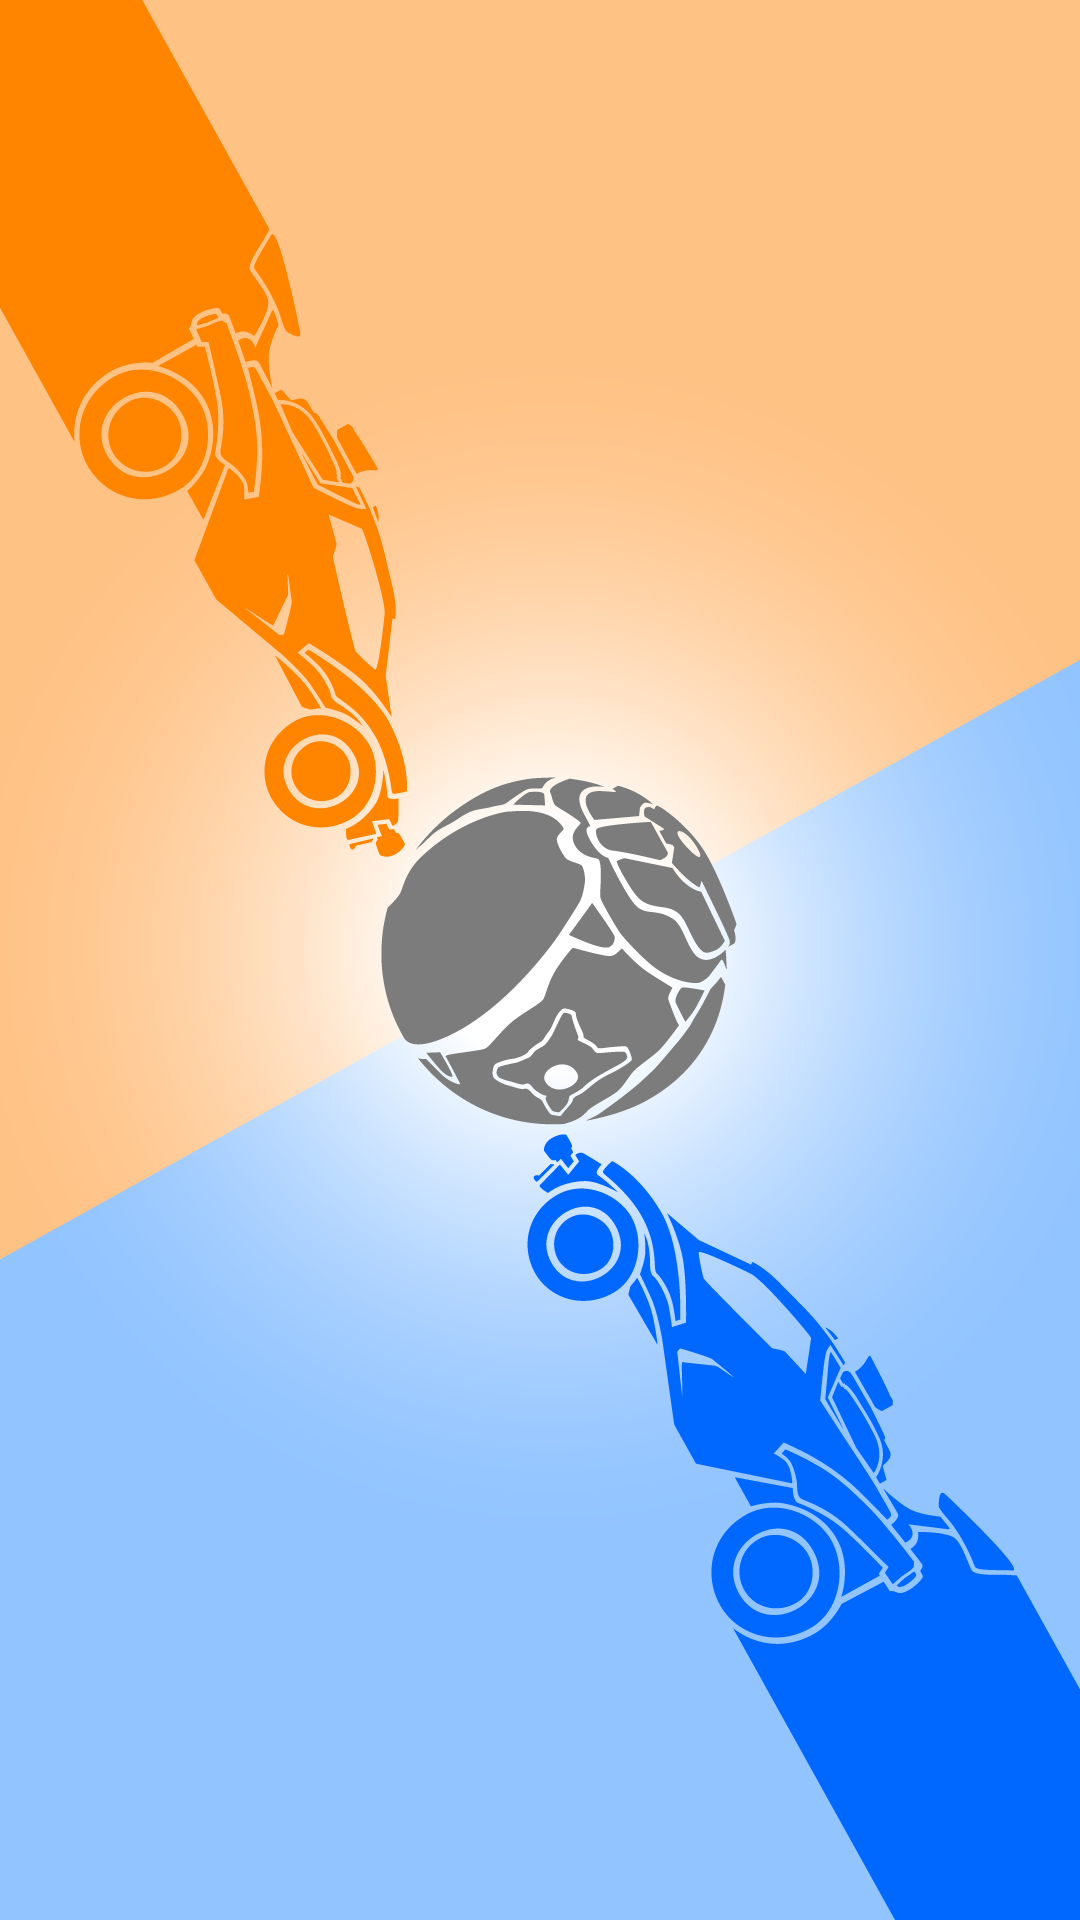
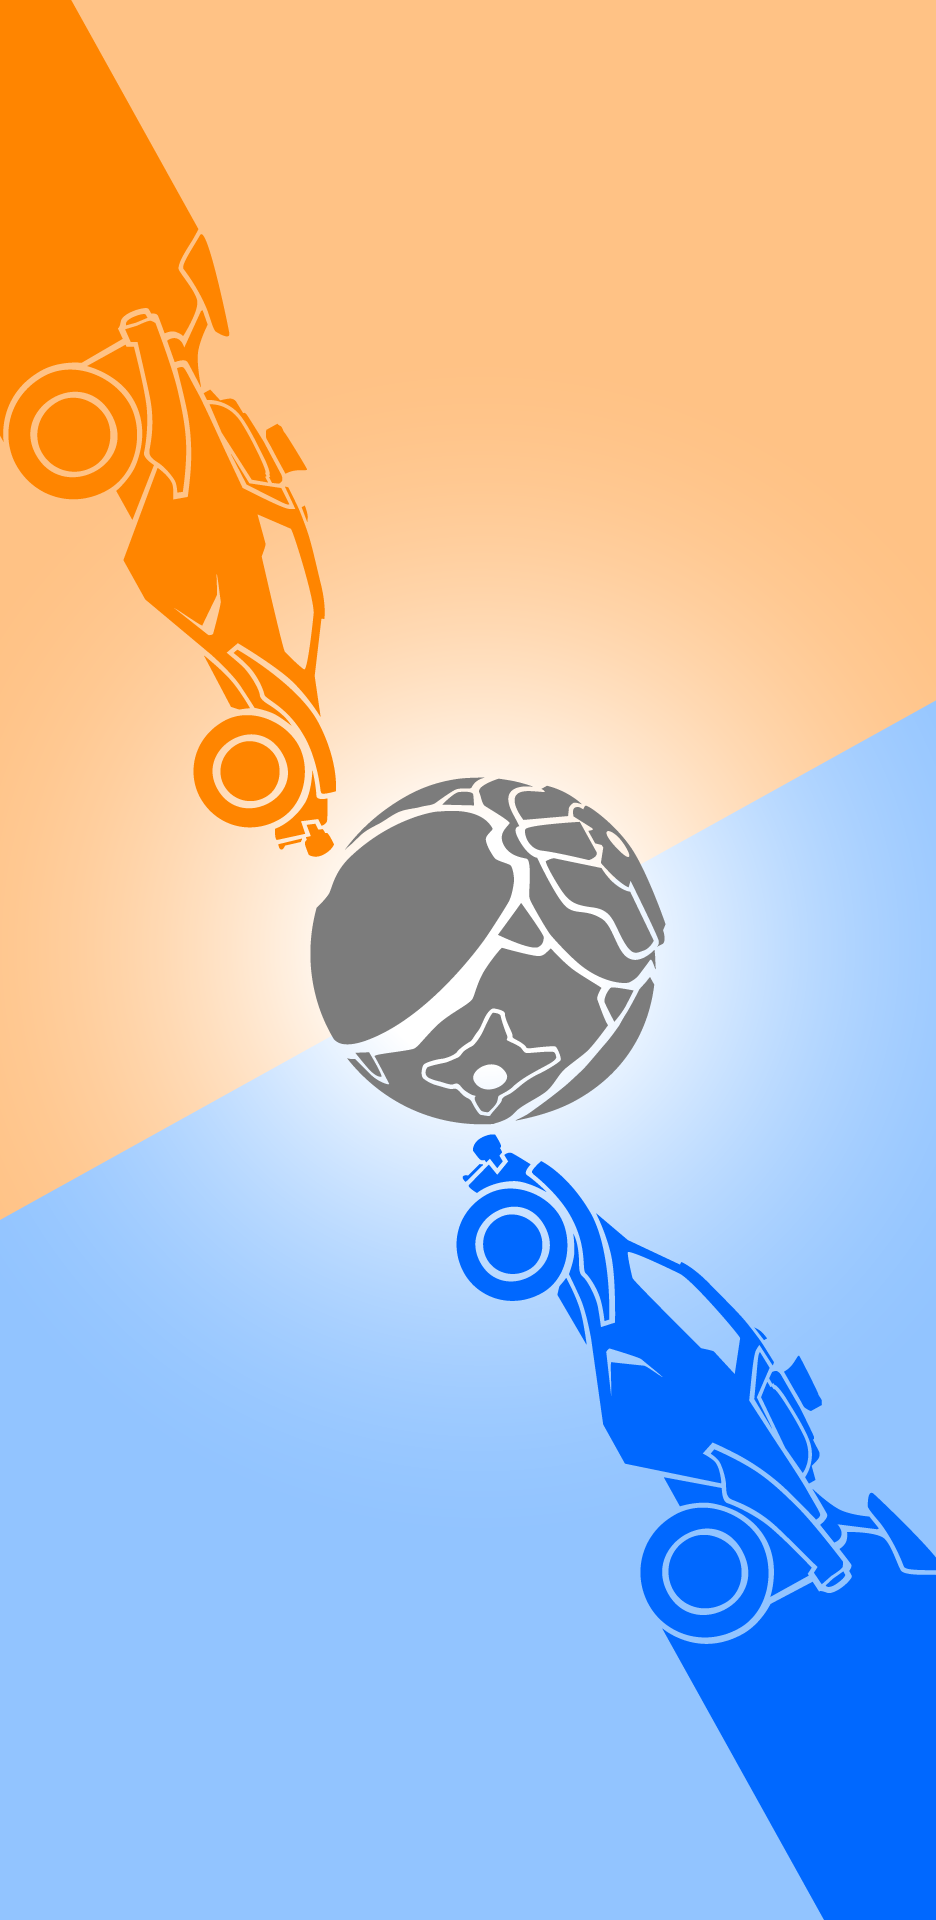
modified js and tweaked html and css
could not get inital js function working so went with a simple one. Tweaked css and html a little and changed background image again

diff --git a/index.html b/index.html
@@ -5,30 +5,30 @@
   <meta charset="utf-8" />
   <meta name="viewport" content="width=device-width,initial-scale=1.0,shrink-to-fit=no" />
   <link rel="stylesheet" media="screen" href="screen.css" />
-  <script src="js/script.js"></script>
+  <script src="script.js"></script>
 </head>
 <body>
-  <form method="get" action="#" autocomplete="on">
+  <form method="get" action="#" autocomplete="on" onsubmit="submitForm();">
     <div id="container">
       <h1>ROCKET LEAGUE TEAM SIGN UP</h1>
       <div id="username">
         <label>Username</label>
         <input type="text" name="username" placeholder="Username" required>
       </div>
-      <div id="password">
+      <div id="pass">
         <label>Password</label>
-        <input type="password" name="password" placeholder="Password" required>
+        <input type="password" name="password" id="password" placeholder="Password" required>
       </div>
-      <div id="confirm password">
+      <div id="confirmPass">
         <label>Confirm Password</label>
-        <input type="password" name="confPassword" placeholder="Confirm password" required>
+        <input type="password" name="confPassword" id="confirm_Password" placeholder="Confirm password" required>
       </div>
       <div id="email">
         <label>Email</label>
         <input type="email" name="email" placeholder="john.smith1@email.com" autocomplete="email" required>
       </div>
       <div id="submit">
-        <input type="submit" Value="Sign Up">
+        <input type="submit" value="Sign Up">
       </div>
     </div>
   </form>

diff --git a/script.js b/script.js
@@ -1,3 +1,19 @@
-var password = document.getElementById("password");
+/* The function is not working. Have not been able to figure out the error.
+ *
+ * function validate(){
+  
+  var password = document.getElementById("password").value;
+  var confirm_password = document.getElementById("confirm_password").value;
+  
+  if (password != confirm_password) {
+    alert("Passwords Don't Match");
+    return false;
+  }
+  else{
+    alert("Welcome to the Team!");
+  }
+} */
 
-var confPassword = document.getElementById("confPassword");
+function submitForm(){
+  alert("Welcome to the Team!");
+}

diff --git a/screen.css b/screen.css
@@ -216,7 +216,7 @@ html{
   font-size: 16px;
   text-shadow: 1px 1px 1px #000;
   color: white;
-  background-image: url("images/rl1.jpg");
+  background-image: url("images/rl1.png");
   background-size: 100%;
   background-repeat: no-repeat;
 }
@@ -264,11 +264,7 @@ input{
   label{
     font-size: 1.44em;
   }
-  
-  #username{
-    margin-top: 10%;
-  }
-  
+
   input{
     width: 60%;
     padding: 12px 20px;
@@ -333,11 +329,7 @@ input{
   input{
     width: 30%;
   }
-  
-  #username{
-    margin-top: 5%;
-  }
-  
+
   #container{
     margin-top: 10%;
     margin-bottom: 50%;
